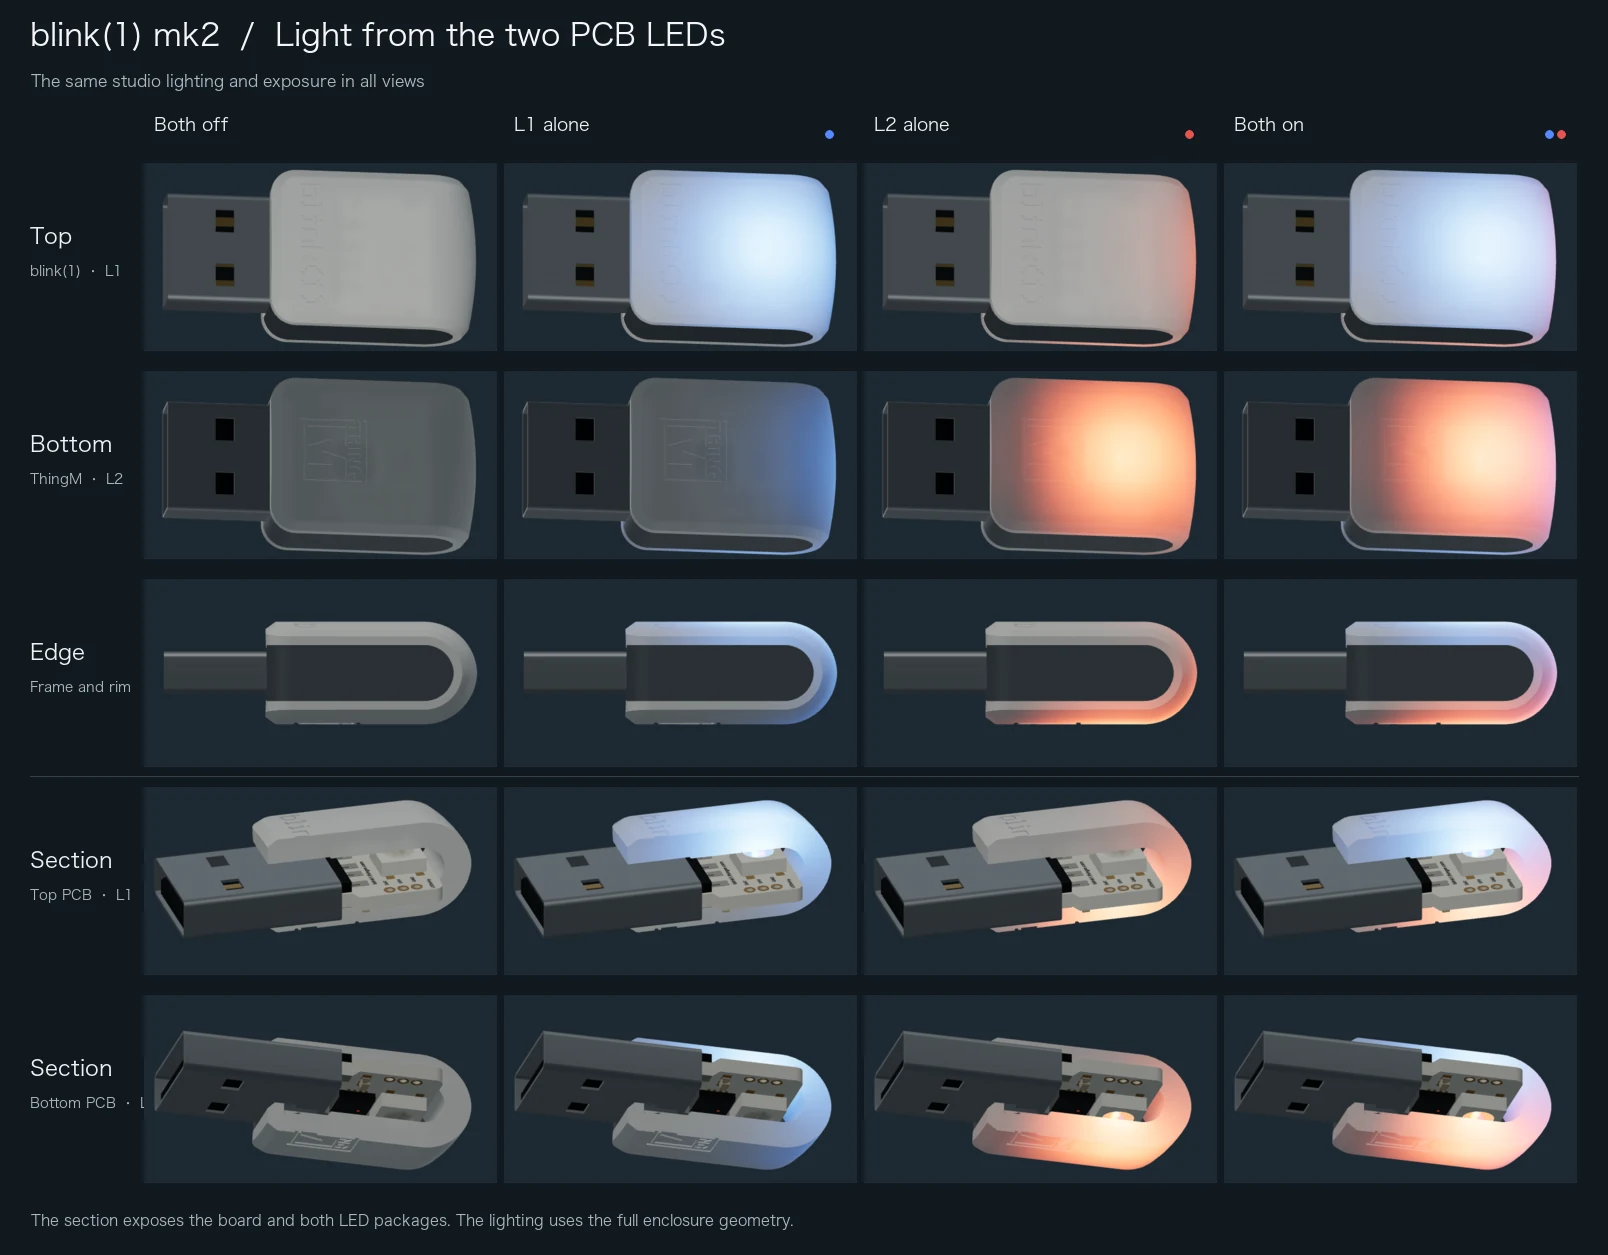
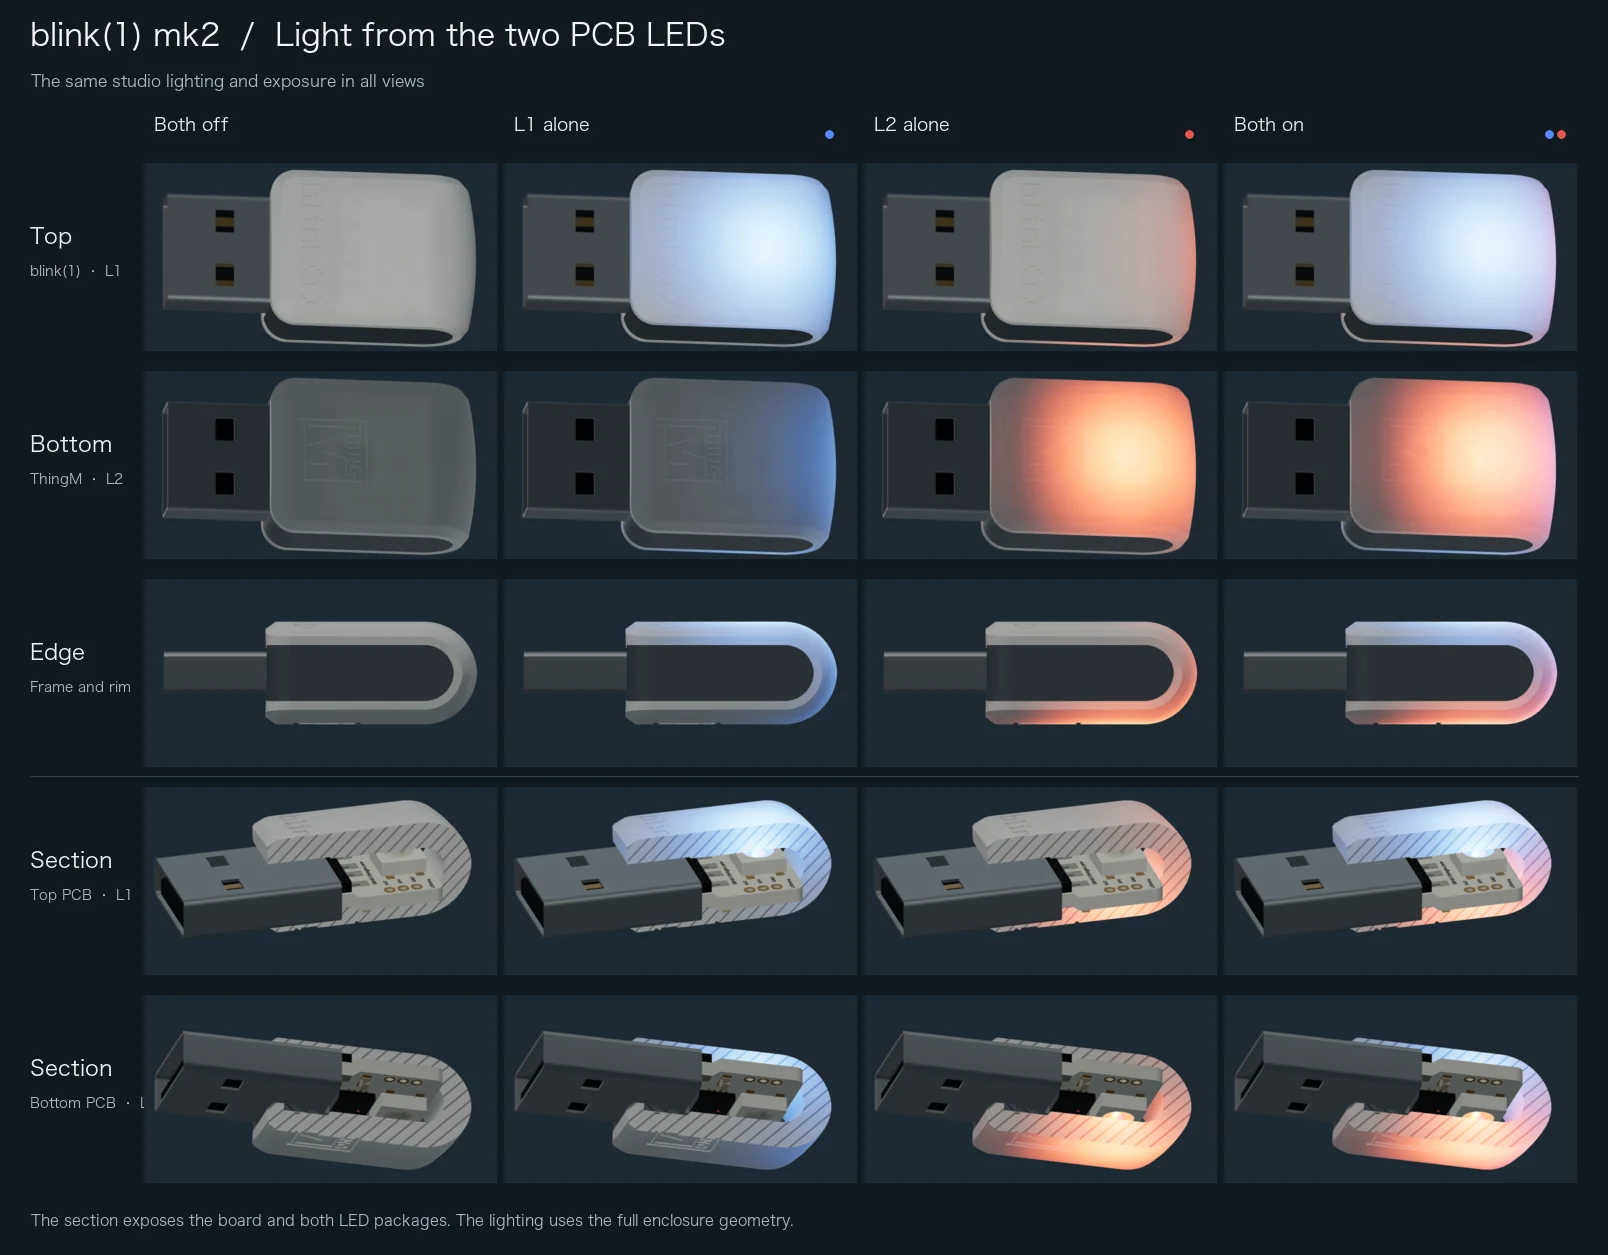
Distinguish the mk2 diffuser section from the closed side profile

diff --git a/site/cutaway.js b/site/cutaway.js
@@ -75,11 +75,49 @@ function cutGeometry(THREE, geometry, planeZ, stationX) {
   return {surface, cap, wallHits: wallHits.sort((a, b) => a - b)};
 }
 
+function sectionMaterial(THREE, source, unit, slope) {
+  const material = new THREE.MeshStandardMaterial({
+    color: source.color, roughness: .88, metalness: source.metalness * .45,
+    emissive: source.emissive, emissiveIntensity: source.emissiveIntensity * .55,
+  });
+  material.onBeforeCompile = (shader, renderer) => {
+    // The plastic section samples the same local light field as its exterior.
+    source.onBeforeCompile(shader, renderer);
+    shader.uniforms.sectionHatchDirection = {value: new THREE.Vector2(1, slope)
+      .normalize().divideScalar(1.1 * unit)};
+    shader.vertexShader = shader.vertexShader
+      .replace('#include <common>', `#include <common>
+        uniform vec2 sectionHatchDirection;
+        varying float sectionHatch;`)
+      .replace('#include <begin_vertex>', `#include <begin_vertex>
+        sectionHatch = dot(position.xy, sectionHatchDirection);`);
+    shader.fragmentShader = shader.fragmentShader
+      .replace('#include <common>', `#include <common>
+        varying float sectionHatch;
+        float hatchIntegral(float phase) {
+          return floor(phase) * 0.16 + min(fract(phase), 0.16);
+        }`)
+      .replace('#include <opaque_fragment>', `
+        // Average the diagonal ink coverage across a pixel at oblique angles.
+        float span = max(fwidth(sectionHatch), 0.0001);
+        float coverage = (hatchIntegral(sectionHatch + 0.5 * span)
+          - hatchIntegral(sectionHatch - 0.5 * span)) / span;
+        outgoingLight *= 1.0 - 0.54 * clamp(coverage, 0.0, 1.0);
+        #include <opaque_fragment>`);
+  };
+  material.customProgramCacheKey = () => source.customProgramCacheKey() + '/hatched-section';
+  return material;
+}
+
 export function createCutaway(THREE, group) {
   const diffuser = group.getObjectByName('One continuous milky diffuser');
   const frame = group.getObjectByName('Original frame — CAD details retained');
   const unit = group.userData.unitsPerMillimetre;
   const stationX = group.getObjectByName('L1 RGB emitter').position.x;
+  const capMaterials = new Map([
+    [diffuser, sectionMaterial(THREE, diffuser.material, unit, -1)],
+    [frame, sectionMaterial(THREE, frame.material, unit, 1)],
+  ]);
   let activeOffset = null, sections = [], thickness = null;
 
   function clearSections() {
@@ -97,12 +135,10 @@ export function createCutaway(THREE, group) {
       clearSections();
       // The assembled model registers the CAD width centreline at local Z = 0.
       const planeZ = -offsetMM * unit;
-      for (const part of [diffuser, frame]) {
+      for (const [part, material] of capMaterials) {
         const original = part.geometry;
         const {surface, cap, wallHits} = cutGeometry(THREE, original, planeZ, stationX);
-        // Use the parent material and object coordinates on the cap to read the
-        // closed assembly's light field at the exposed material section.
-        const face = new THREE.Mesh(cap, part.material);
+        const face = new THREE.Mesh(cap, material);
         face.name = part.name + ' section';
         part.add(face);
         sections.push({part, original, surface, face});
@@ -119,5 +155,10 @@ export function createCutaway(THREE, group) {
     }
     return thickness;
   }
-  return {setEnabled, dispose: clearSections};
+  function dispose() {
+    clearSections();
+    for (const material of capMaterials.values()) material.dispose();
+    capMaterials.clear();
+  }
+  return {setEnabled, dispose};
 }

diff --git a/site/viewer.js b/site/viewer.js
@@ -7,10 +7,12 @@ import {createCutaway} from './cutaway.js';
 const canvas = document.querySelector('#model');
 const status = document.querySelector('#status');
 const reset = document.querySelector('#reset');
+const sideView = document.querySelector('#side-view');
 const variantButtons = [...document.querySelectorAll('[data-variant]')];
 const cutControls = document.querySelector('#cut-controls');
 const cutButtons = [...cutControls.querySelectorAll('[data-offset]')];
 const gauge = document.querySelector('#section-gauge');
+const sectionLabel = document.querySelector('#section-label');
 const ledControls = document.querySelector('#led-controls');
 const leds = [...ledControls.querySelectorAll('.led')].map(row => ({
   power: row.querySelector('[type="checkbox"]'),
@@ -73,7 +75,9 @@ async function start() {
     const thickness = cutaway.setEnabled(true, offsetMM);
     gauge.textContent = `${offsetMM} mm from center. At the LED station the top wall is ${thickness.top.toFixed(2)} mm and the bottom wall is ${thickness.bottom.toFixed(2)} mm.`;
     for (const button of cutButtons) {
-      button.setAttribute('aria-pressed', String(Number(button.dataset.offset) === offsetMM));
+      const selected = Number(button.dataset.offset) === offsetMM;
+      button.setAttribute('aria-pressed', String(selected));
+      if (selected) sectionLabel.textContent = `Cutaway · ${button.textContent}`;
     }
   }
   function showVariant(view) {
@@ -99,6 +103,7 @@ async function start() {
       orbit.saveState();
     }
     cutControls.hidden = view !== 'cutaway';
+    sectionLabel.hidden = view !== 'cutaway';
     if (view === 'cutaway') {
       cutaway ??= createCutaway(THREE, model.group);
       showSection();
@@ -149,6 +154,12 @@ async function start() {
 
   orbit.addEventListener('change', render);
   reset.addEventListener('click', () => orbit.reset());
+  sideView.addEventListener('click', () => {
+    const distance = camera.position.distanceTo(orbit.target);
+    const direction = model.group.getWorldDirection(new THREE.Vector3());
+    camera.position.copy(orbit.target).addScaledVector(direction, distance);
+    orbit.update();
+  });
   ledControls.addEventListener('input', () => {
     updateLeds();
     render();
@@ -169,10 +180,12 @@ async function start() {
   reset.disabled = false;
   status.hidden = true;
   canvas.addEventListener('webglcontextlost', () => {
+    sideView.disabled = true;
     status.hidden = false;
     status.textContent = 'Graphics paused. Reload to restore the view.';
   });
   showVariant('assembled');
+  sideView.disabled = false;
   window.addEventListener('pagehide', event => {
     if (event.persisted) return;
     observer.disconnect();

diff --git a/scripts/cutaway.test.js b/scripts/cutaway.test.js
@@ -21,6 +21,8 @@ test('the three longitudinal sections follow the v3k material and wall thickness
   const parts = ['One continuous milky diffuser', 'Original frame — CAD details retained']
     .map(name => model.group.getObjectByName(name));
   const original = parts.map(p => new THREE.Mesh(p.geometry, probe));
+  const originals = parts.map(part => part.material);
+  const cutMaterials = new Set(), disposedMaterials = new Set();
   const unit = model.group.userData.unitsPerMillimetre;
   const ray = new THREE.Raycaster();
   const down = new THREE.Vector3(0, -1, 0), inward = new THREE.Vector3(0, 0, -1);
@@ -33,7 +35,20 @@ test('the three longitudinal sections follow the v3k material and wall thickness
       const cap = part.getObjectByName(part.name + ' section');
       const surface = part.geometry;
       assert.ok(cap.visible && surface !== original[i].geometry);
-      assert.equal(cap.material, part.material);
+      assert.equal(part.material, originals[i]);
+      assert.notEqual(cap.material, part.material);
+      assert.ok(cap.material.roughness > part.material.roughness);
+      if (!cutMaterials.has(cap.material)) {
+        cutMaterials.add(cap.material);
+        cap.material.addEventListener('dispose', () => disposedMaterials.add(cap.material));
+        const shader = {...THREE.ShaderLib.standard, uniforms: {}};
+        cap.material.onBeforeCompile(shader);
+        assert.match(shader.fragmentShader, /fwidth\(sectionHatch\)/);
+        if (i === 0) {
+          const light = part.material.userData.lightField.uniforms;
+          for (const key of Object.keys(light)) assert.equal(shader.uniforms[key], light[key]);
+        }
+      }
       // All indexed, visible vertices must lie in the half-space behind the
       // selected plane. Every cap triangle lies on the actual section.
       const vertices = surface.getAttribute('position'), index = surface.getIndex();
@@ -65,4 +80,8 @@ test('the three longitudinal sections follow the v3k material and wall thickness
     assert.equal(part.geometry, original[i].geometry);
     assert.equal(part.getObjectByName(part.name + ' section').visible, false);
   }
+  assert.equal(cutMaterials.size, 2);
+  assert.equal(disposedMaterials.size, 0);
+  cut.dispose();
+  assert.deepEqual(disposedMaterials, cutMaterials);
 });

diff --git a/site/index.html b/site/index.html
@@ -10,7 +10,11 @@
 <body><main>
   <header><div><a href="https://github.com/b1ug/blink1-models">blink(1) Models</a><h1>blink(1) mk2</h1></div>
   <a href="https://github.com/b1ug/blink1-models/releases">Download model</a></header>
-  <section class="stage" aria-label="3D viewer"><canvas id="model" tabindex="0" role="img" aria-label="Rotatable blink(1) mk2" aria-describedby="guide"></canvas><p id="status" role="status">Loading model…</p></section>
+  <section class="stage" aria-label="3D viewer">
+    <canvas id="model" tabindex="0" role="img" aria-label="Rotatable blink(1) mk2" aria-describedby="guide"></canvas>
+    <span id="section-label" hidden></span>
+    <p id="status" role="status">Loading model…</p>
+  </section>
   <div class="controls">
     <fieldset class="model-modes"><legend>Model view</legend>
       <div class="choices">
@@ -37,7 +41,13 @@
     </div>
     <output id="section-gauge" aria-live="polite"></output>
   </fieldset>
-  <footer><p id="guide">Drag to orbit. Scroll or pinch to zoom. Use arrow keys, +, − or Home.</p><button id="reset" disabled>Reset view</button></footer>
+  <footer>
+    <p id="guide">Drag to orbit. Scroll or pinch to zoom. Use arrow keys, +, − or Home.</p>
+    <div class="choices">
+      <button id="side-view" type="button" disabled>Side view</button>
+      <button id="reset" type="button" disabled>Reset view</button>
+    </div>
+  </footer>
   <section class="sources"><h2>Model files</h2><p>The v2c6 PCB carries two WS2812B RGB LEDs, one on each face. LED 1 shines toward the blink(1) wordmark and LED 2 toward ThingM. The assembled view shows their light spreading through the diffuser.</p>
   <a href="models/mk2/manifest.json">Manifest and checksums</a> · <a href="models/mk2/model-assets/source.json">Geometry and attribution</a> · <a href="models/mk2/model-assets/LICENSE.txt">CAD license</a></section>
   <noscript>The interactive viewer uses JavaScript. Model files are available from the download link above.</noscript>

diff --git a/site/viewer.css b/site/viewer.css
@@ -14,6 +14,7 @@ h1 { margin: .5rem 0 0; font-size: clamp(1.5rem, 4vw, 2.25rem); line-height: 1.2
 .stage { position: relative; overflow: hidden; border: 1px solid #354556; border-radius: .7rem; background: radial-gradient(ellipse at 50% 45%, #27323c, #181e25 75%); }
 canvas { display: block; width: 100%; height: clamp(18rem, 61vh, 36rem); }
 canvas:focus-visible { outline-offset: -3px; }
+#section-label { position: absolute; top: .65rem; left: .75rem; padding: .12rem .45rem; border-radius: .25rem; background: #101419db; color: #d4e0e9; font-size: .8rem; pointer-events: none; }
 #status { position: absolute; left: .75rem; bottom: .75rem; max-width: calc(100% - 1.5rem); padding: .4rem .65rem; margin: 0; background: #101419; border-radius: .3rem; }
 footer { margin-top: .75rem; }
 footer p { margin: 0; color: #b5c4d3; font-size: .9rem; }

diff --git a/README.md b/README.md
@@ -1,6 +1,6 @@
 # blink(1) Models
 
-The viewer opens with the blink(1) mk2 assembled and both PCB LEDs on. Use the checkbox and color picker for each LED to see its contribution to the diffuser. **Cutaway** opens a lengthwise section through the frame and diffuser, exposing the board and LED windows while showing the light field calculated for the closed assembly. **PCB only** shows the exposed board and **Empty shell** shows the unlit enclosure. The controls remember your choices as you switch views. The interactive viewer requires WebGL 2. [Open the model viewer](https://b1ug.github.io/blink1-models/)
+The viewer opens with the blink(1) mk2 assembled and both PCB LEDs on. Use the checkbox and color picker for each LED to see its contribution to the diffuser. **Side view** turns the near metal rail toward the camera. Switch to **Cutaway** at the same angle to see the board and LED windows. Diagonal hatching marks the section through the frame and diffuser. Its lighting comes from the closed assembly. **PCB only** shows the exposed board and **Empty shell** shows the unlit enclosure. The controls remember your choices as you switch views. The interactive viewer requires WebGL 2. [Open the model viewer](https://b1ug.github.io/blink1-models/)
 
 This repository maintains the reusable geometry, assembly code, provenance and per-file checksums used by nb1 Debugger, nb1 WebHID and nb1 Guide. Each consumer can import a pinned version and ship it offline.
 
@@ -41,6 +41,10 @@ For light falling on nearby objects, such as a tabletop, the assembled model int
 ![Front, back, rim and cutaway views of the mk2 with both LEDs off, either LED on, and both on.](docs/images/mk2-led-transport.webp)
 
 ## Diffuser wall thickness
+
+From the side, the metal rail covers the PCB. The glowing border includes the curved surfaces above, below and around the end of the rail. Halfway along the straight rail, the full silhouette is about 1.8 times the rail height in an orthographic side render and about 1.9 times in the product photo. Those are projected dimensions and depend on camera angle and the photographic edge of the glow. In the center cutaway, the hatched band exposes the plastic at the centerline. [Photograph of an illuminated mk2 viewed from the side](https://i.gzn.jp/img/2014/08/04/blink1-mk2/P2220583.jpg)
+
+![The assembled side and the center cutaway rendered at the same angle and scale. The metal rail hides the PCB in the assembly, and the hatched cut exposes both LED packages.](docs/images/mk2-assembled-and-cutaway.webp)
 
 At the LED station, 14.52 mm behind the USB end of the cover, the v3k design has roughly 3.00 mm of plastic above and below the LEDs. Each wall tapers to 1.77 mm near the rail and 1.00 mm at its outer lip. Select **Cutaway** and switch between **Center**, **Near rail** and **Outer lip** to see the sections and their top and bottom measurements. The measurements use the assembled model’s nominal millimetre scale. The teardown photograph shows the removable diffuser and its seats, while the internal dimensions come from the CAD. [ThingM diffuser STL](https://github.com/todbot/blink1/blob/101abe3599c661c4dd4d1204b4d50fb592293143/hardware/enclosure/blink1mk2_enclosure_diffuser_v3k.stl) · [GIGAZINE’s mk2 teardown photo](https://i.gzn.jp/img/2014/08/04/blink1-mk2/P2220588.jpg)
 
